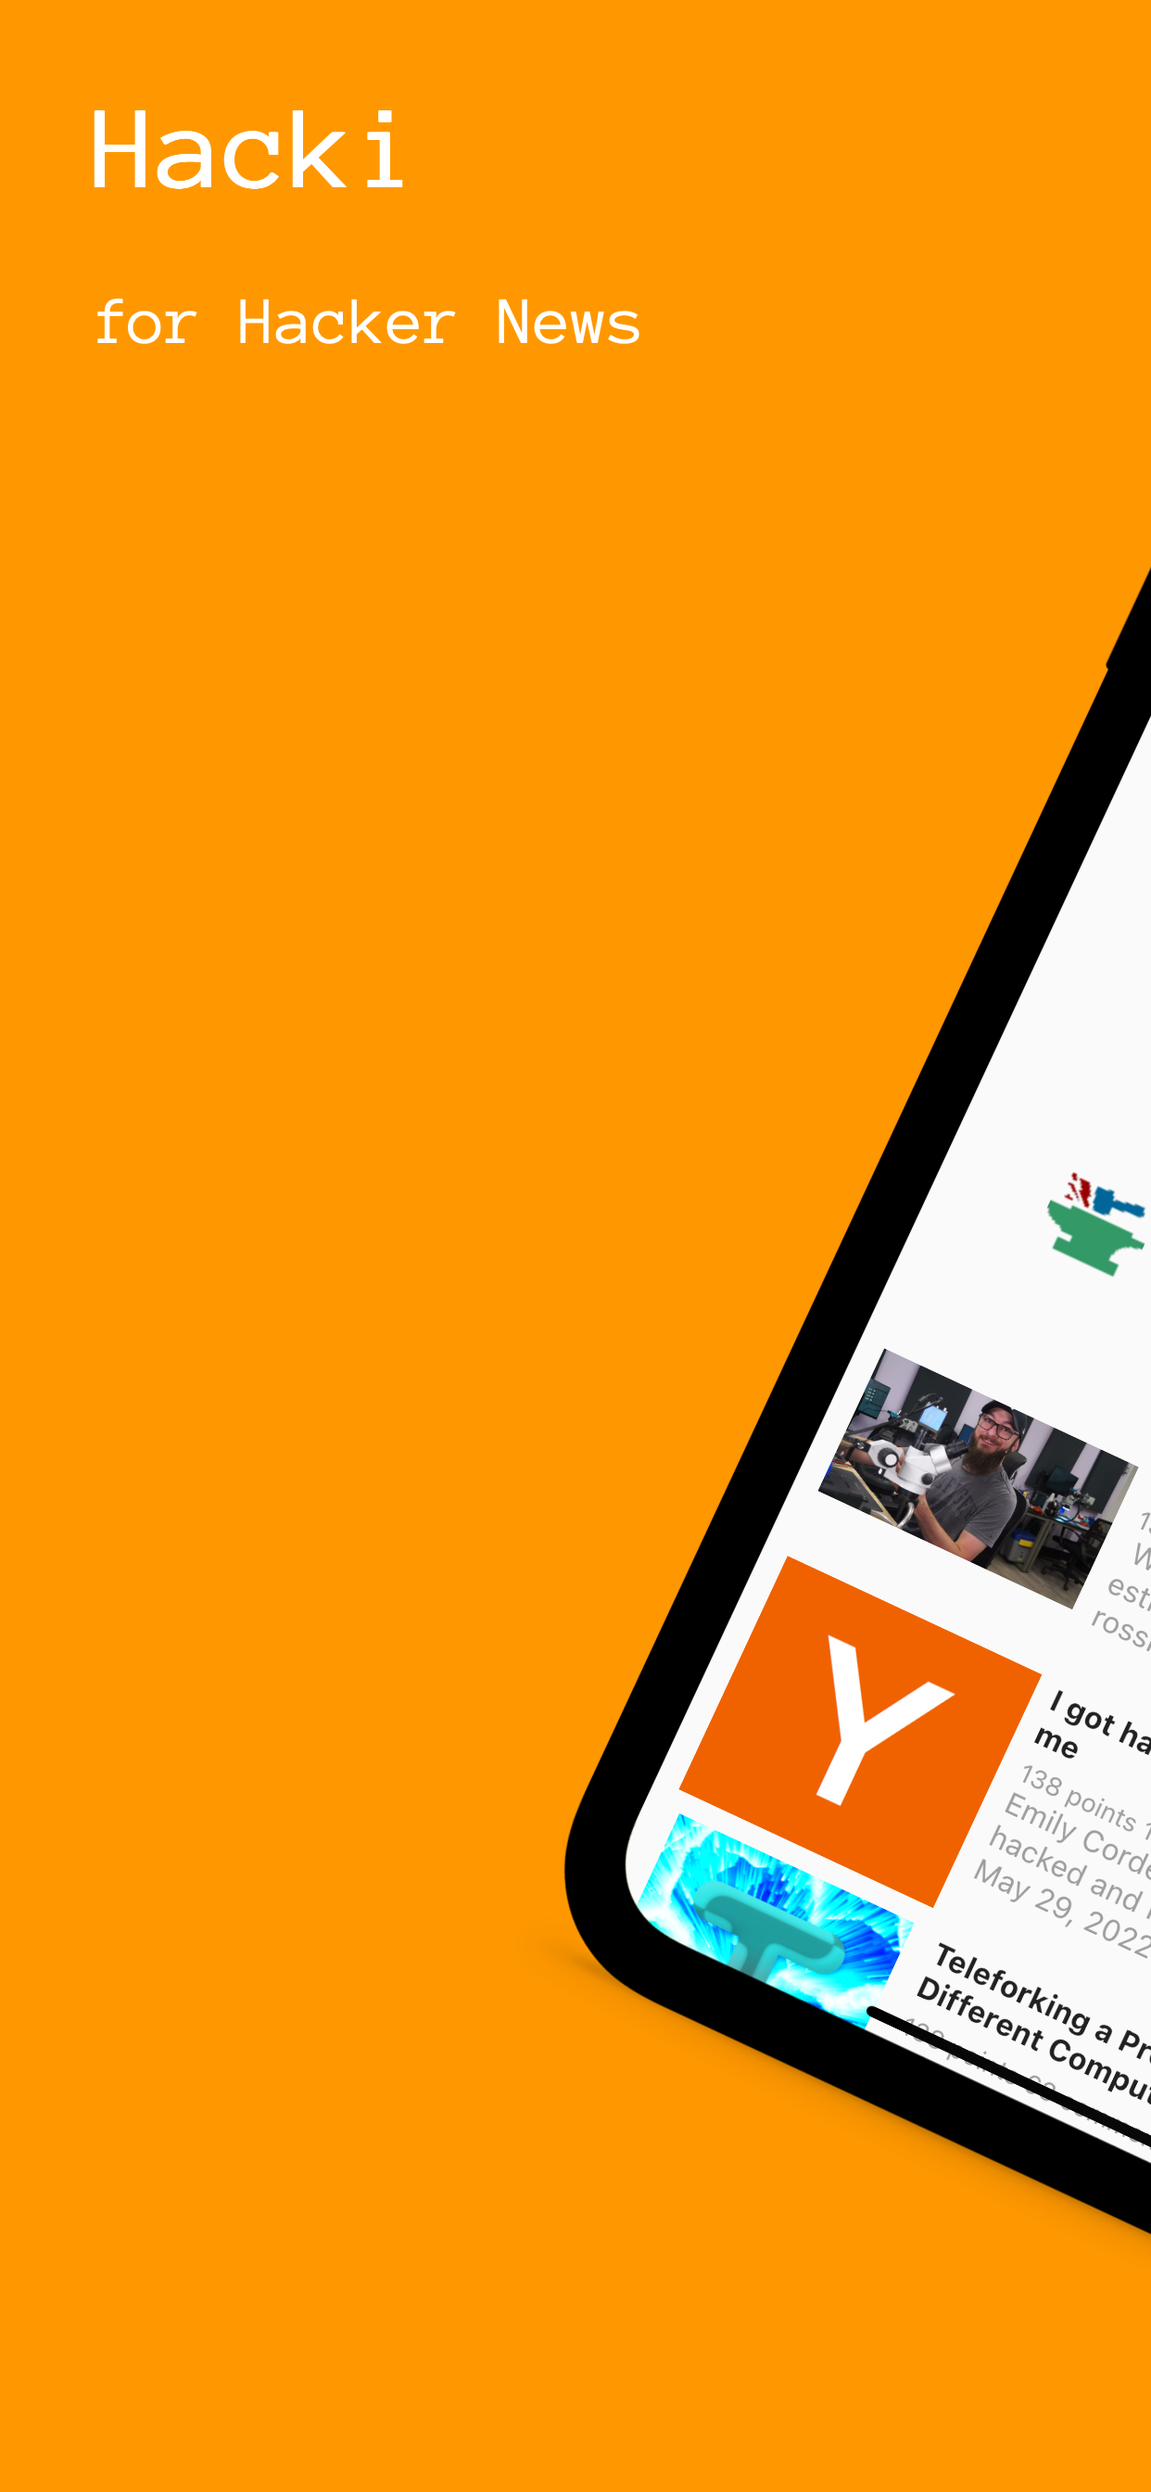
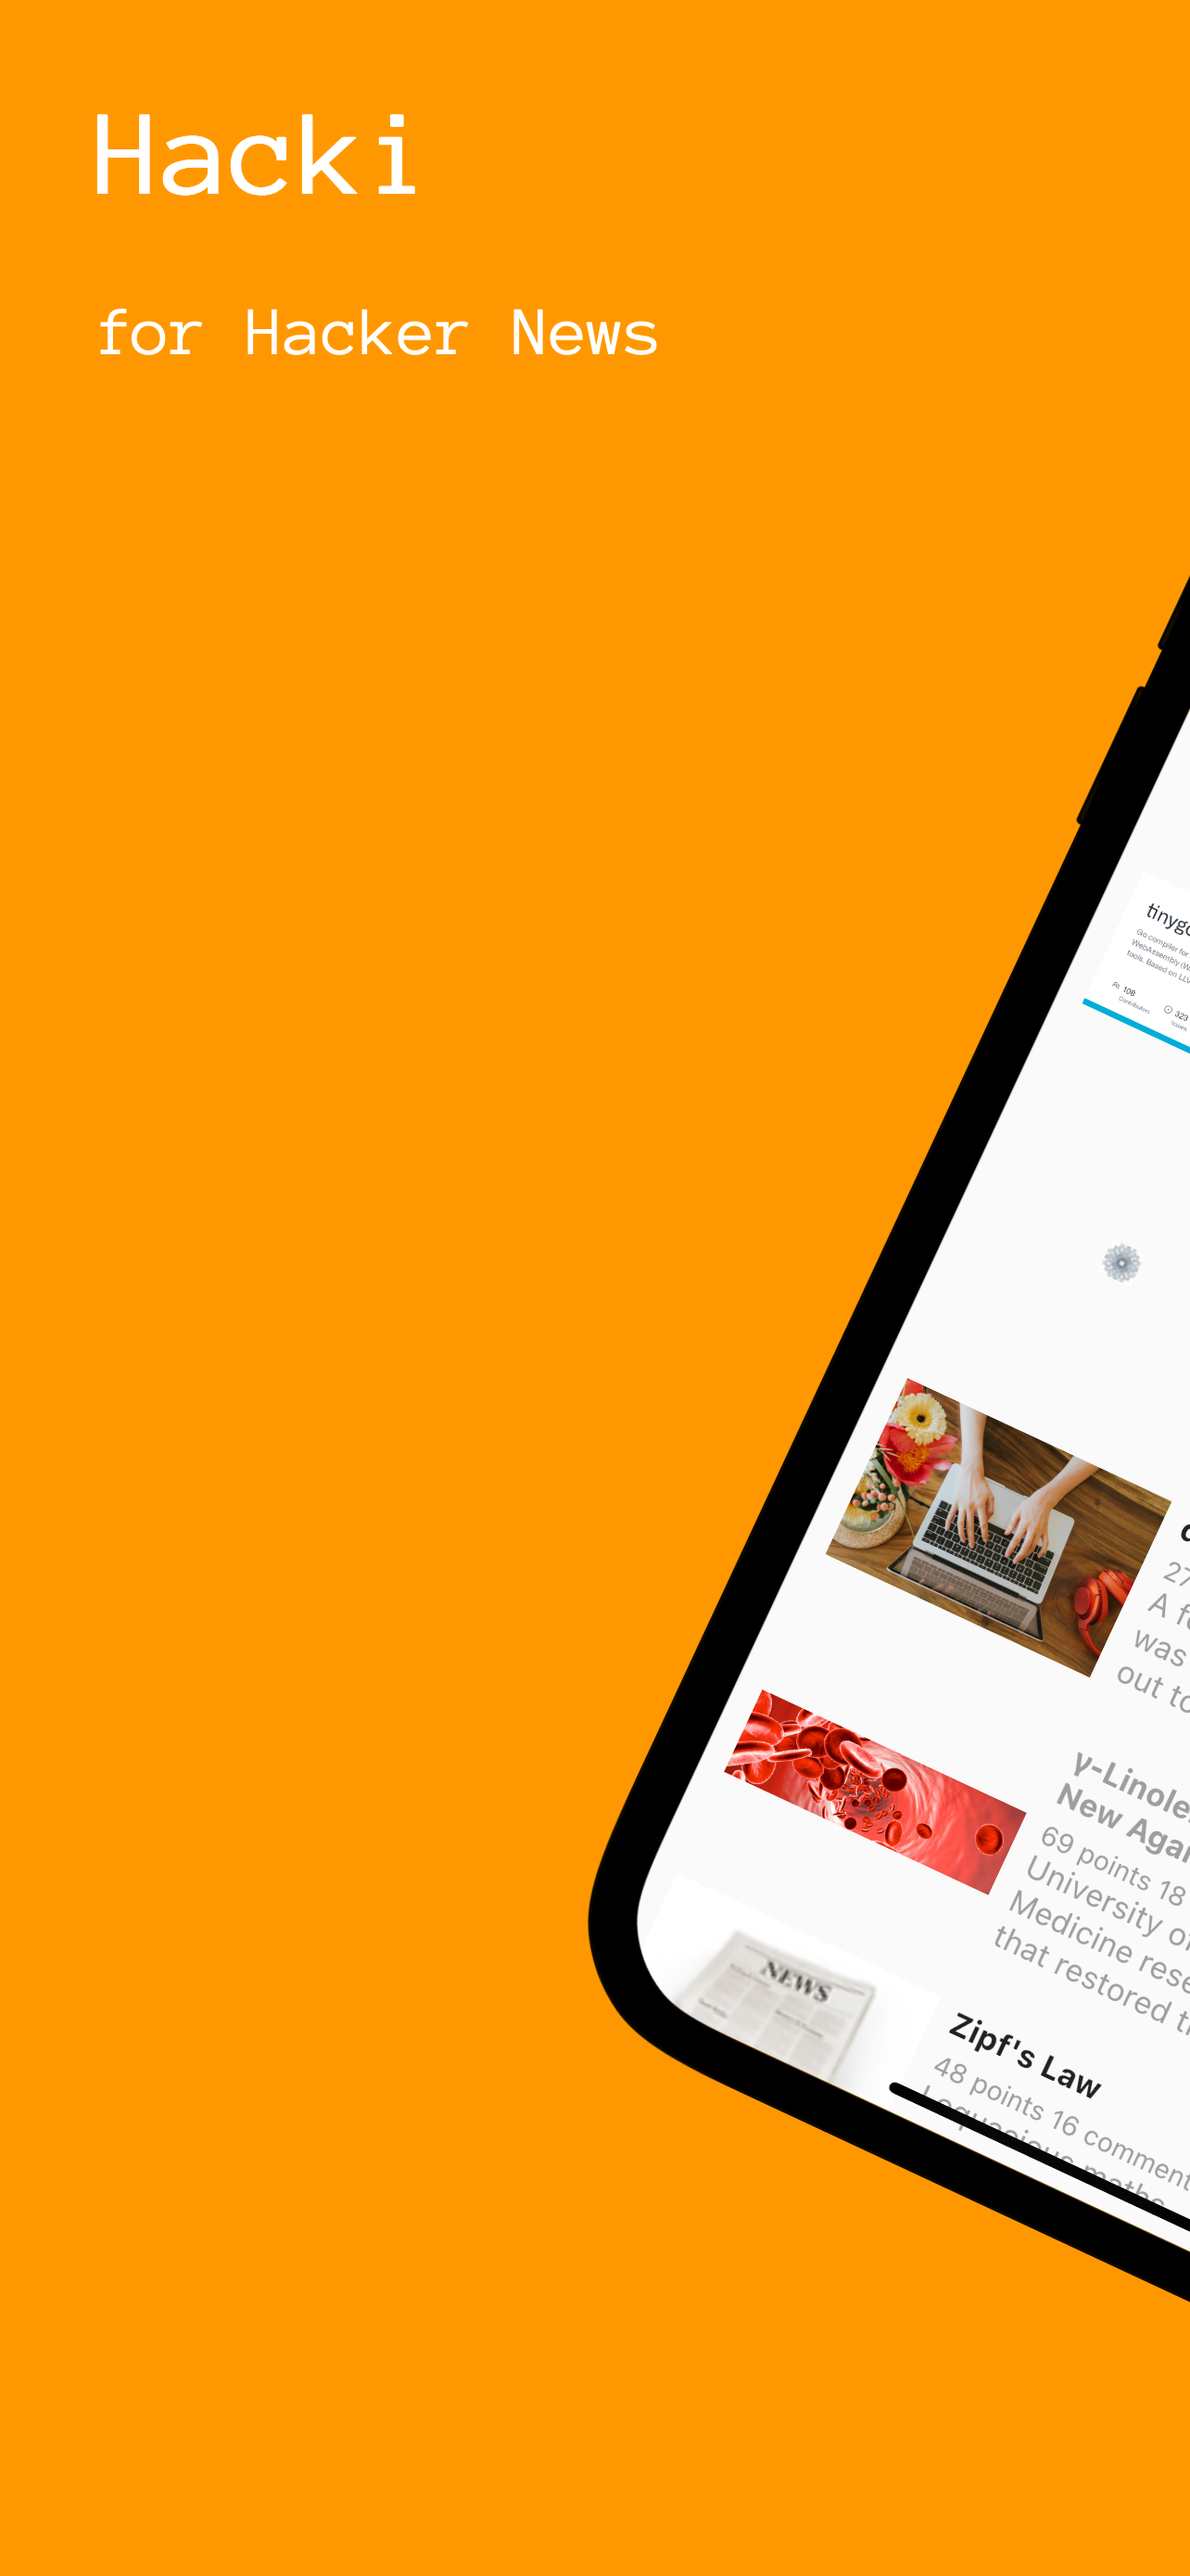
replaced jobs with best.

diff --git a/lib/screens/home_screen.dart b/lib/screens/home_screen.dart
@@ -222,61 +222,21 @@ class _HomeScreenState extends State<HomeScreen>
                         HapticFeedback.selectionClick();
                       },
                       tabs: <Widget>[
-                        Tab(
-                          child: Text(
-                            'TOP',
-                            style: TextStyle(
-                              fontSize: currentIndex == 0 ? 14 : 10,
-                              color: currentIndex == 0
-                                  ? Colors.orange
-                                  : Colors.grey,
+                        for (int i = 0; i < StoriesBloc.types.length; i++)
+                          Tab(
+                            key: ValueKey<StoryType>(
+                              StoriesBloc.types.elementAt(i),
+                            ),
+                            child: Text(
+                              StoriesBloc.types.elementAt(i).label,
+                              style: TextStyle(
+                                fontSize: currentIndex == i ? 14 : 10,
+                                color: currentIndex == i
+                                    ? Colors.orange
+                                    : Colors.grey,
+                              ),
                             ),
                           ),
-                        ),
-                        Tab(
-                          child: Text(
-                            'NEW',
-                            style: TextStyle(
-                              fontSize: currentIndex == 1 ? 14 : 10,
-                              color: currentIndex == 1
-                                  ? Colors.orange
-                                  : Colors.grey,
-                            ),
-                          ),
-                        ),
-                        Tab(
-                          child: Text(
-                            'ASK',
-                            style: TextStyle(
-                              fontSize: currentIndex == 2 ? 14 : 10,
-                              color: currentIndex == 2
-                                  ? Colors.orange
-                                  : Colors.grey,
-                            ),
-                          ),
-                        ),
-                        Tab(
-                          child: Text(
-                            'SHOW',
-                            style: TextStyle(
-                              fontSize: currentIndex == 3 ? 14 : 10,
-                              color: currentIndex == 3
-                                  ? Colors.orange
-                                  : Colors.grey,
-                            ),
-                          ),
-                        ),
-                        Tab(
-                          child: Text(
-                            'JOBS',
-                            style: TextStyle(
-                              fontSize: currentIndex == 4 ? 14 : 10,
-                              color: currentIndex == 4
-                                  ? Colors.orange
-                                  : Colors.grey,
-                            ),
-                          ),
-                        ),
                         Tab(
                           child: DescribedFeatureOverlay(
                             onBackgroundTap: onFeatureDiscoveryDismissed,
@@ -349,36 +309,13 @@ class _HomeScreenState extends State<HomeScreen>
               physics: const NeverScrollableScrollPhysics(),
               controller: tabController,
               children: <Widget>[
-                StoriesListView(
-                  key: const ValueKey<StoryType>(StoryType.top),
-                  storyType: StoryType.top,
-                  header: pinnedStories,
-                  onStoryTapped: onStoryTapped,
-                ),
-                StoriesListView(
-                  key: const ValueKey<StoryType>(StoryType.latest),
-                  storyType: StoryType.latest,
-                  header: pinnedStories,
-                  onStoryTapped: onStoryTapped,
-                ),
-                StoriesListView(
-                  key: const ValueKey<StoryType>(StoryType.ask),
-                  storyType: StoryType.ask,
-                  header: pinnedStories,
-                  onStoryTapped: onStoryTapped,
-                ),
-                StoriesListView(
-                  key: const ValueKey<StoryType>(StoryType.show),
-                  storyType: StoryType.show,
-                  header: pinnedStories,
-                  onStoryTapped: onStoryTapped,
-                ),
-                StoriesListView(
-                  key: const ValueKey<StoryType>(StoryType.jobs),
-                  storyType: StoryType.jobs,
-                  header: pinnedStories,
-                  onStoryTapped: onStoryTapped,
-                ),
+                for (final StoryType type in StoriesBloc.types)
+                  StoriesListView(
+                    key: ValueKey<StoryType>(type),
+                    storyType: type,
+                    header: pinnedStories,
+                    onStoryTapped: onStoryTapped,
+                  ),
                 const ProfileScreen(),
               ],
             ),

diff --git a/lib/blocs/stories/stories_bloc.dart b/lib/blocs/stories/stories_bloc.dart
@@ -48,6 +48,15 @@ class StoriesBloc extends Bloc<StoriesEvent, StoriesState> {
   static const int _tabletSmallPageSize = 15;
   static const int _tabletLargePageSize = 25;
 
+  /// Types of story to be shown in the tab bar.
+  static const Set<StoryType> types = <StoryType>{
+    StoryType.top,
+    StoryType.best,
+    StoryType.latest,
+    StoryType.ask,
+    StoryType.show,
+  };
+
   Future<void> onInitialize(
     StoriesInitialize event,
     Emitter<StoriesState> emit,
@@ -70,11 +79,9 @@ class StoriesBloc extends Bloc<StoriesEvent, StoriesState> {
         currentPageSize: pageSize,
       ),
     );
-    await loadStories(of: StoryType.top, emit: emit);
-    await loadStories(of: StoryType.latest, emit: emit);
-    await loadStories(of: StoryType.ask, emit: emit);
-    await loadStories(of: StoryType.show, emit: emit);
-    await loadStories(of: StoryType.jobs, emit: emit);
+    for (final StoryType type in types) {
+      await loadStories(of: type, emit: emit);
+    }
   }
 
   Future<void> loadStories({
@@ -237,34 +244,17 @@ class StoriesBloc extends Bloc<StoriesEvent, StoriesState> {
     await _cacheRepository.deleteAllStories();
     await _cacheRepository.deleteAllComments();
 
-    final List<int> topIds =
-        await _storiesRepository.fetchStoryIds(of: StoryType.top);
-    final List<int> newIds =
-        await _storiesRepository.fetchStoryIds(of: StoryType.latest);
-    final List<int> askIds =
-        await _storiesRepository.fetchStoryIds(of: StoryType.ask);
-    final List<int> showIds =
-        await _storiesRepository.fetchStoryIds(of: StoryType.show);
-    final List<int> jobIds =
-        await _storiesRepository.fetchStoryIds(of: StoryType.jobs);
+    final Set<int> allIds = <int>{};
 
-    await _cacheRepository.cacheStoryIds(of: StoryType.top, ids: topIds);
-    await _cacheRepository.cacheStoryIds(of: StoryType.latest, ids: newIds);
-    await _cacheRepository.cacheStoryIds(of: StoryType.ask, ids: askIds);
-    await _cacheRepository.cacheStoryIds(of: StoryType.show, ids: showIds);
-    await _cacheRepository.cacheStoryIds(of: StoryType.jobs, ids: jobIds);
-
-    final List<int> allIds = <int>[
-      ...topIds,
-      ...newIds,
-      ...askIds,
-      ...showIds,
-      ...jobIds
-    ];
+    for (final StoryType type in types) {
+      final List<int> ids = await _storiesRepository.fetchStoryIds(of: type);
+      await _cacheRepository.cacheStoryIds(of: type, ids: ids);
+      allIds.addAll(ids);
+    }
 
     try {
       _storiesRepository
-          .fetchStoriesStream(ids: allIds)
+          .fetchStoriesStream(ids: allIds.toList())
           .listen((Story story) async {
         if (story.kids.isNotEmpty) {
           await _cacheRepository.cacheStory(story: story);

diff --git a/lib/blocs/stories/stories_state.dart b/lib/blocs/stories/stories_state.dart
@@ -28,6 +28,7 @@ class StoriesState extends Equatable {
   const StoriesState.init({
     this.storiesByType = const <StoryType, List<Story>>{
       StoryType.top: <Story>[],
+      StoryType.best: <Story>[],
       StoryType.latest: <Story>[],
       StoryType.ask: <Story>[],
       StoryType.show: <Story>[],
@@ -35,6 +36,7 @@ class StoriesState extends Equatable {
     },
     this.storyIdsByType = const <StoryType, List<int>>{
       StoryType.top: <int>[],
+      StoryType.best: <int>[],
       StoryType.latest: <int>[],
       StoryType.ask: <int>[],
       StoryType.show: <int>[],
@@ -42,6 +44,7 @@ class StoriesState extends Equatable {
     },
     this.statusByType = const <StoryType, StoriesStatus>{
       StoryType.top: StoriesStatus.initial,
+      StoryType.best: StoriesStatus.initial,
       StoryType.latest: StoriesStatus.initial,
       StoryType.ask: StoriesStatus.initial,
       StoryType.show: StoriesStatus.initial,
@@ -49,6 +52,7 @@ class StoriesState extends Equatable {
     },
     this.currentPageByType = const <StoryType, int>{
       StoryType.top: 0,
+      StoryType.best: 0,
       StoryType.latest: 0,
       StoryType.ask: 0,
       StoryType.show: 0,

diff --git a/lib/models/story.dart b/lib/models/story.dart
@@ -5,6 +5,7 @@ import 'package:hacki/models/item.dart';
 
 enum StoryType {
   top('topstories'),
+  best('beststories'),
   latest('newstories'),
   ask('askstories'),
   show('showstories'),
@@ -13,6 +14,23 @@ enum StoryType {
   const StoryType(this.path);
 
   final String path;
+
+  String get label {
+    switch (this) {
+      case StoryType.top:
+        return 'TOP';
+      case StoryType.best:
+        return 'BEST';
+      case StoryType.latest:
+        return 'NEW';
+      case StoryType.ask:
+        return 'ASK';
+      case StoryType.show:
+        return 'SHOW';
+      case StoryType.jobs:
+        return 'JOBS';
+    }
+  }
 }
 
 class Story extends Item {
